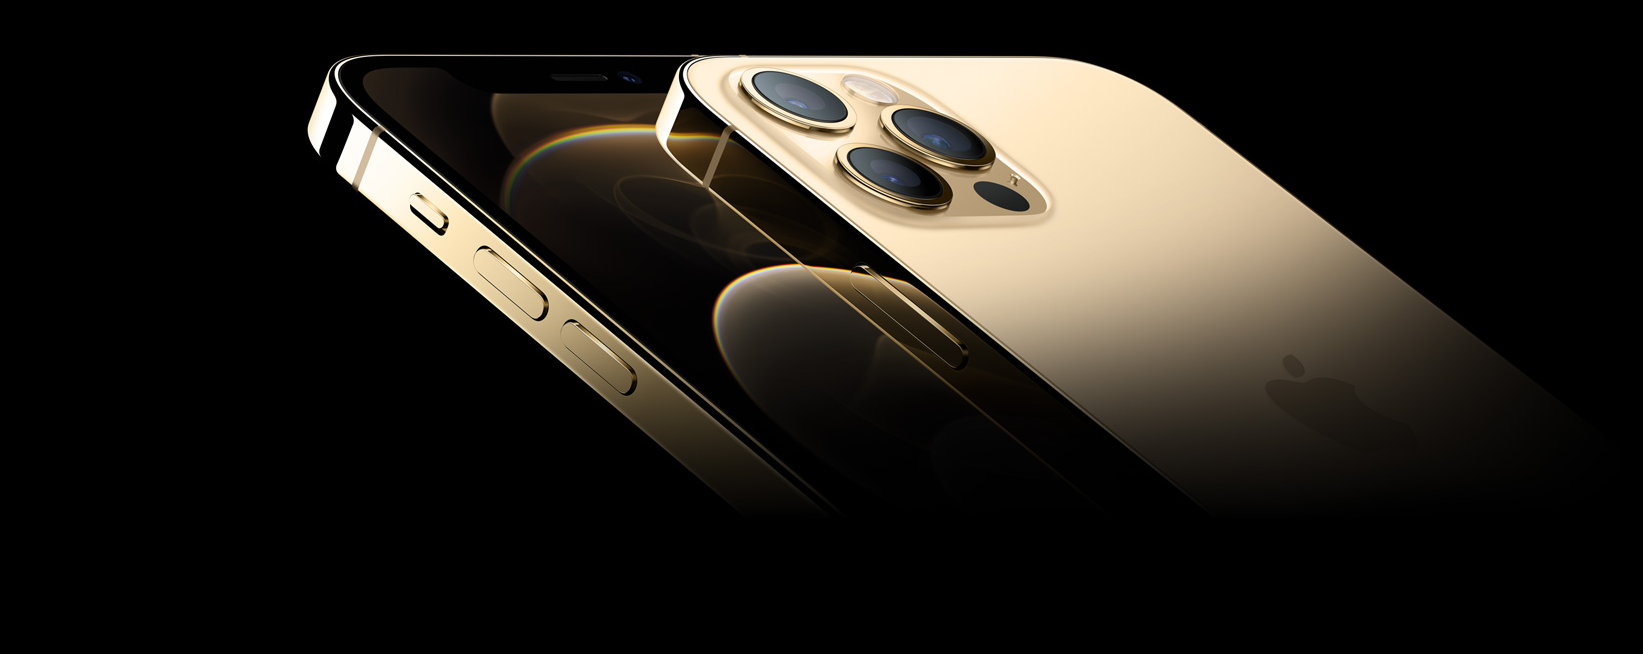
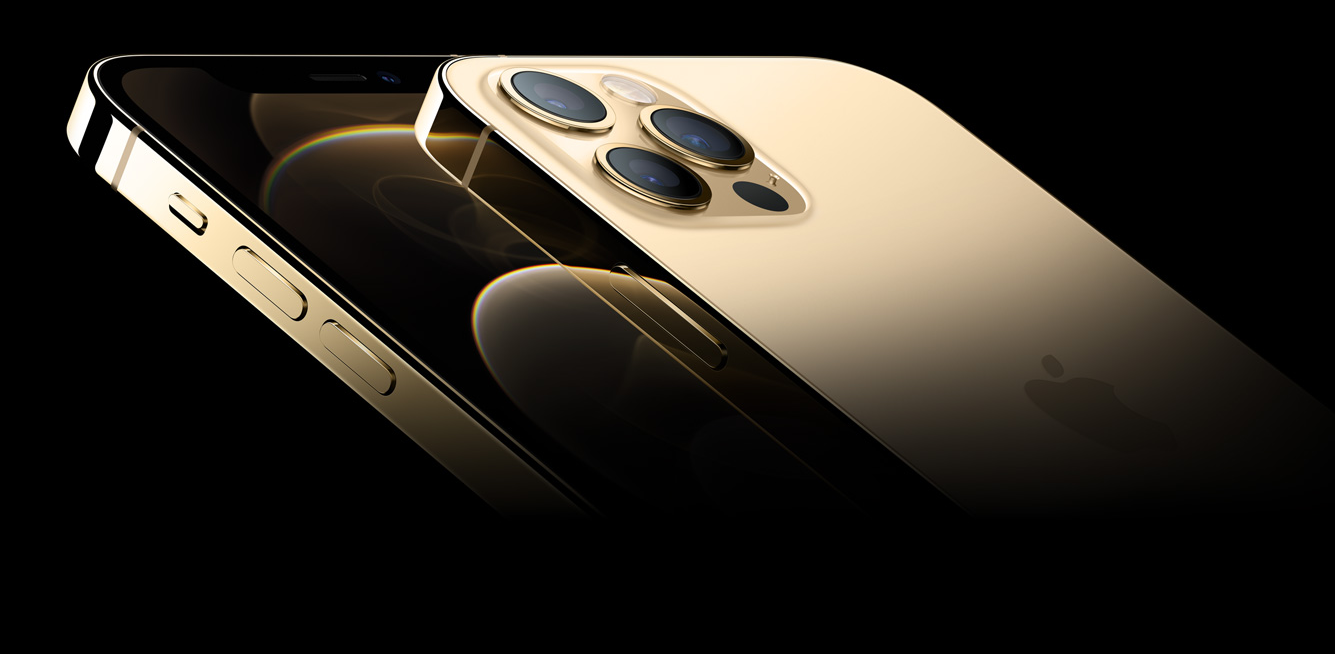
page

diff --git a/components/web2/Navigation.js b/components/web2/Navigation.js
@@ -107,7 +107,7 @@ export default function Navigation() {
                 >
                   <div className="px-2 pt-2 pb-3 space-y-1 w-full">
                     {listItems.map((list) => (
-                      <Link key={list.id} href="#">
+                      <Link key={list.id} href="/">
                         <a className="block px-3 py-2 w-full rounded-md text-base font-medium text-gray-700 hover:text-white hover:bg-indigo-400">
                           {list.name}
                         </a>
@@ -125,7 +125,12 @@ export default function Navigation() {
                 </div>
               </div>
             </div>
-            <div className={`${drop ? 'inset-0' :  '' } " absolute bg-gradient-to-b from-black  h-screen " `} onClick={closeDrop} ></div>
+            <div
+              className={`${
+                drop ? "inset-0" : ""
+              } bg-gradient-to-b from-black  h-screen fixed`}
+              onClick={closeDrop}
+            ></div>
 
             <main className="mt-10 mx-auto max-w-7xl px-4 sm:mt-12 sm:px-6 md:mt-16 lg:mt-20 lg:px-8 xl:mt-28">
               <div className="sm:text-center lg:text-left">
@@ -167,11 +172,26 @@ export default function Navigation() {
           <img
             className="h-56 w-full object-cover sm:h-72 md:h-96 lg:w-full lg:h-full"
             src="https://images.unsplash.com/photo-1551434678-e076c223a692?ixlib=rb-1.2.1&ixid=eyJhcHBfaWQiOjEyMDd9&auto=format&fit=crop&w=2850&q=80"
-            alt=""
+            alt="g"
           />
         </div>
       </div>
-        {/* <Options /> */}
+      <Options />
+
+     
+
+      <div className="">
+        <div className=" flex justify-center ">
+          <div className="inline-flex" style={{ width: "1500px" }}>
+            <img
+              className="mx-auto object-cover  h-96 "
+              src="https://images.unsplash.com/photo-1551434678-e076c223a692?ixlib=rb-1.2.1&ixid=eyJhcHBfaWQiOjEyMDd9&auto=format&fit=crop&w=2850&q=80"
+              alt="g"
+              style={{ width: "1200px" }}
+            />
+          </div>
+        </div>
+      </div>
     </div>
   );
 }

diff --git a/components/web5/Main5.js b/components/web5/Main5.js
@@ -18,9 +18,6 @@ export default function Main5() {
             <h3 className="text-3xl 2xl:text-5xl font-bold text-center">
               Como siempre.
             </h3>
-            {/* <h3 className="text-blue-600 text-lg font-semibold text-center mt-4">
-              Más información
-            </h3> */}
           </div>
           <div className="hidden md:flex lg:hidden ">
             <div className="">
@@ -35,18 +32,18 @@ export default function Main5() {
         </div>
       </section>
 
-      <div className="flex justify-center overflow-hidden md:hidden ">
-        <div className=" ">
+    
+        <div className="flex justify-center  md:hidden ">
           <div className=" inline-flex" style={{ width: "1200px" }}>
             <img
-              className=" mx-auto"
+              className=" mx-auto object-cover h-80 "
               style={{ width: "750px" }}
               src="/web5/main5.png"
               alt="movil"
             />
           </div>
         </div>
-      </div>
+      
 
       <section className="md:flex md:w-10/12 mx-auto md:space-x-4 mt-2">
 

diff --git a/components/web2/Options.js b/components/web2/Options.js
@@ -43,7 +43,7 @@ export default function Options() {
           >
             <ul className="max-h-56 rounded-md  text-base ring-1 ring-black ring-opacity-5 overflow-auto focus:outline-none sm:text-sm w-full">
               {listOptions.map((opt) => (
-                <li className="text-gray-600  relative py-2 pl-3 pr-9 hover:bg-indigo-300 flex items-center hover:text-indigo-600">
+                <li key={opt.id} className="text-gray-600  relative py-2 pl-3 pr-9 hover:bg-indigo-300 flex items-center hover:text-indigo-600">
                   <div className="flex items-center">
                     <img
                       src="https://images.unsplash.com/photo-1491528323818-fdd1faba62cc?ixlib=rb-1.2.1&amp;ixid=eyJhcHBfaWQiOjEyMDd9&amp;auto=format&amp;fit=facearea&amp;facepad=2&amp;w=256&amp;h=256&amp;q=80"

diff --git a/components/web5/Header.js b/components/web5/Header.js
@@ -164,14 +164,14 @@ export default function Header() {
               </a>
             </Link>
           </div>
-          <div className="py-4 w-full">
+          <div className="py-4 w-full lg:overflow-hidden">
             <img
               className="mx-auto md:hidden"
               src="/web5/movil.png"
               alt="movil"
             />
             <img
-              className="mx-auto hidden md:flex "
+              className="mx-auto hidden md:flex transform lg:translate-x-36"
               src="/web5/iphone.png"
               alt="movil"
             />

diff --git a/components/web5/Main6.js b/components/web5/Main6.js
@@ -117,7 +117,7 @@ export default function Main6() {
         </section>
       </section>
 
-      <section className="bg-white py-14 md:py-0 md:w-10/12  mx-auto mt-2">
+      <section className="bg-white pt-14 md:py-0 md:w-10/12  mx-auto mt-2">
         <div className=" mx-auto   lg:w-11/12  md:flex md:items-center ">
           <div className=" w-4/5 md:w-7/12 lg:w-5/12 mx-auto text-center  md:ml-4">
             <img
